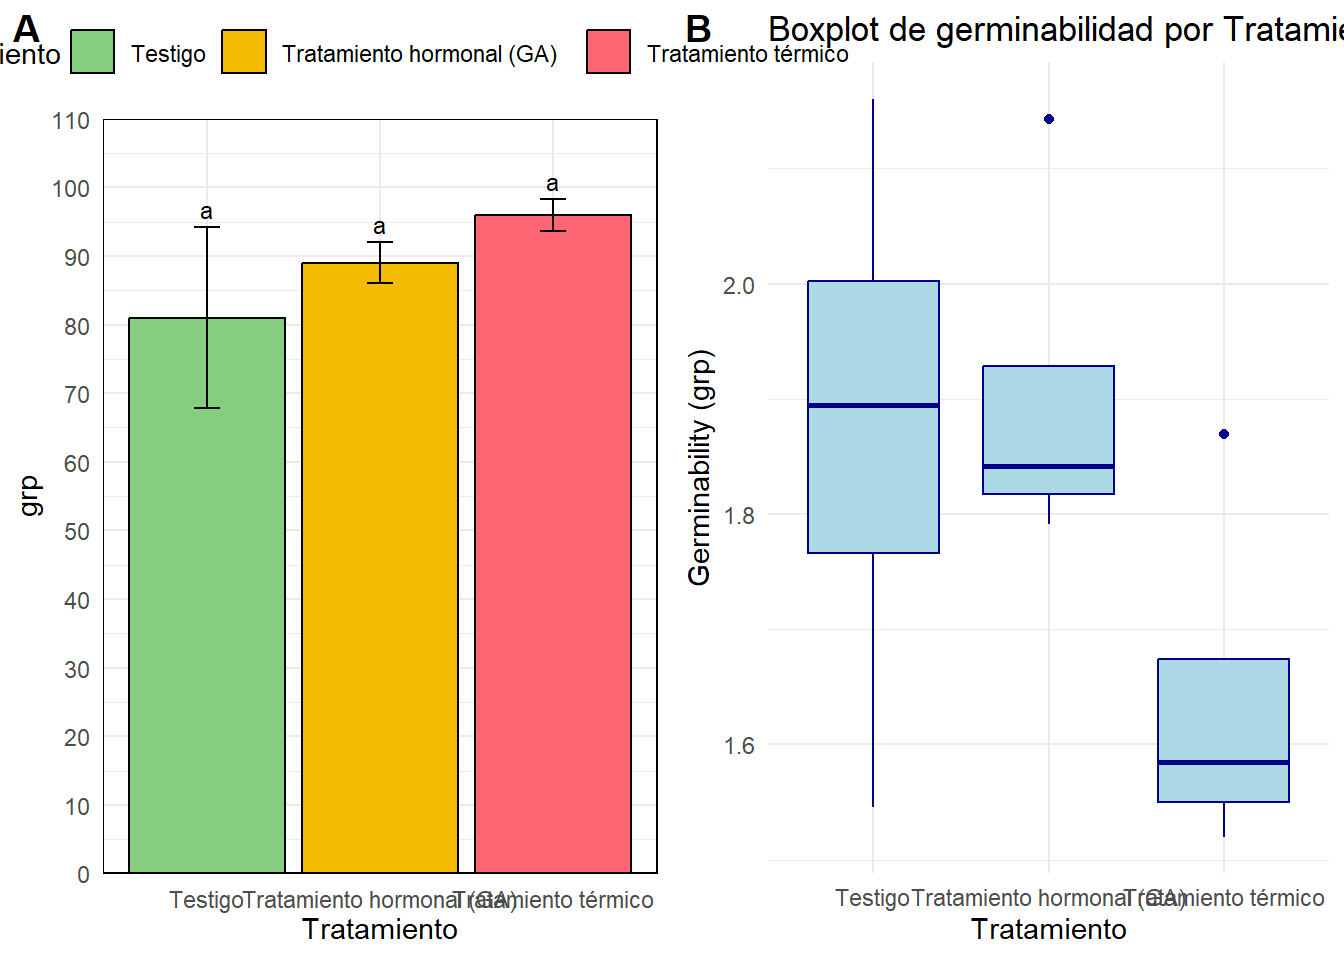
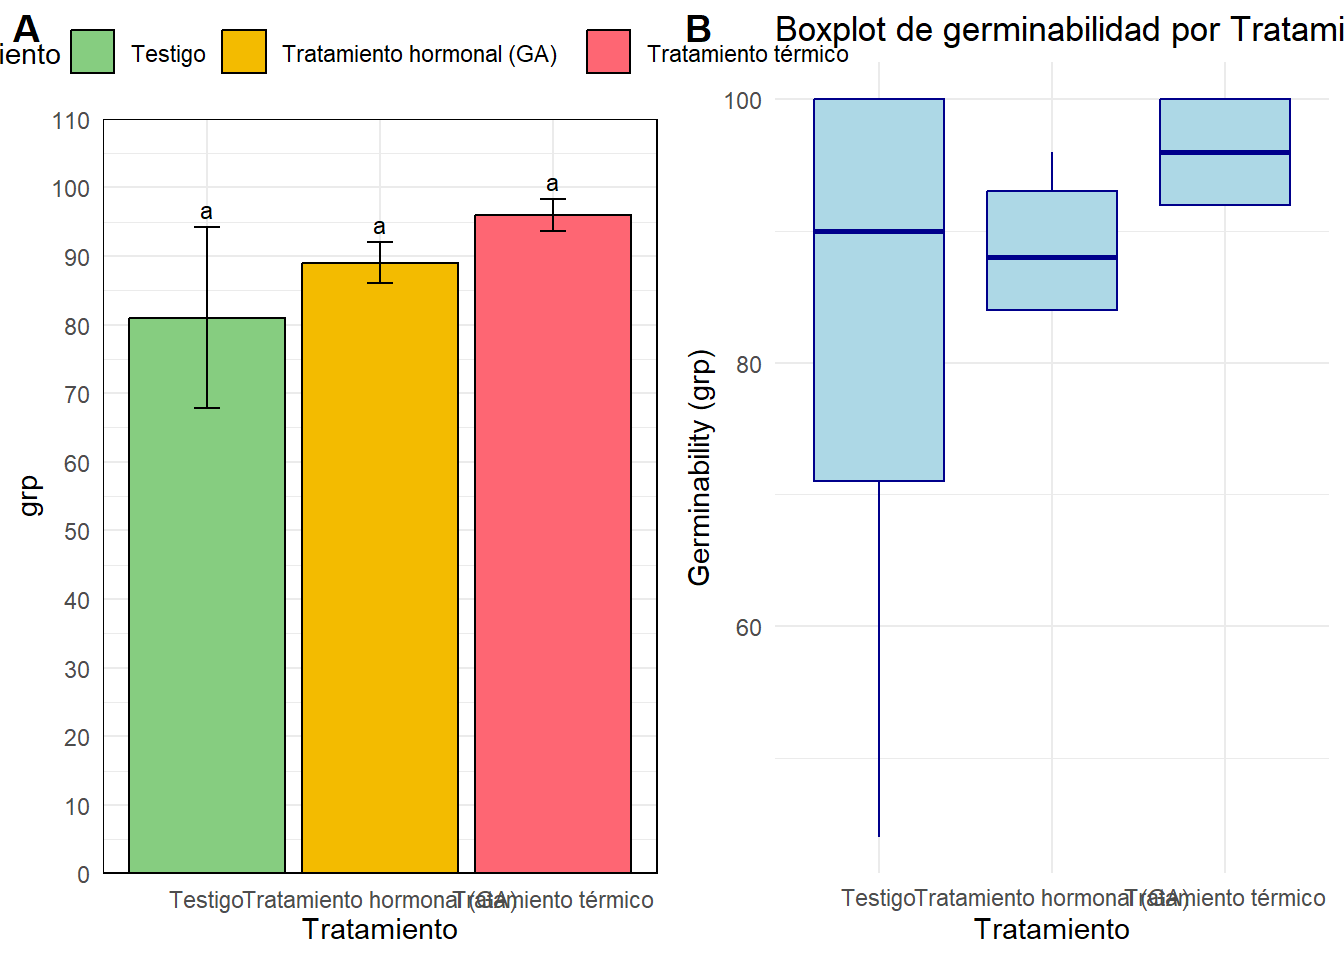
ctual

diff --git a/analize.html b/analize.html
@@ -6,7 +6,6 @@
 
 <meta name="viewport" content="width=device-width, initial-scale=1.0, user-scalable=yes">
 
-<meta name="author" content="Euler G">
 
 <title>Analisis de Germinación – GRUPO F</title>
 <style>
@@ -176,12 +175,6 @@ pre > code.sourceCode > span > a:first-child::before { text-decoration: underlin
 
 <div class="quarto-title-meta">
 
-    <div>
-    <div class="quarto-title-meta-heading">Author</div>
-    <div class="quarto-title-meta-contents">
-             <p>Euler G </p>
-          </div>
-  </div>
     
   
     
@@ -224,7 +217,7 @@ pre > code.sourceCode > span > a:first-child::before { text-decoration: underlin
 <div class="cell-output cell-output-stderr">
 <pre><code>Warning in system2("quarto", "-V", stdout = TRUE, env = paste0("TMPDIR=", : el
 comando ejecutado '"quarto"
-TMPDIR=C:/Users/Euler/AppData/Local/Temp/Rtmp4ItU2K/file3130248c4144 -V' tiene
+TMPDIR=C:/Users/Euler/AppData/Local/Temp/RtmpY1KZBJ/file2c90729963f3 -V' tiene
 el estatus 1</code></pre>
 </div>
 <div class="cell-output cell-output-stdout">
@@ -935,7 +928,7 @@ el estatus 1</code></pre>
 <span id="cb19-4"><a href="#cb19-4" aria-hidden="true" tabindex="-1"></a>       , <span class="at">type =</span> <span class="st">"bar"</span> </span>
 <span id="cb19-5"><a href="#cb19-5" aria-hidden="true" tabindex="-1"></a>       , <span class="at">x =</span> <span class="st">"Tratamiento"</span></span>
 <span id="cb19-6"><a href="#cb19-6" aria-hidden="true" tabindex="-1"></a>       , <span class="at">y =</span> <span class="st">"mgt"</span></span>
-<span id="cb19-7"><a href="#cb19-7" aria-hidden="true" tabindex="-1"></a>       , <span class="at">ylimits =</span> <span class="fu">c</span>(<span class="dv">0</span>, <span class="dv">3</span>, <span class="fl">0.5</span>)</span>
+<span id="cb19-7"><a href="#cb19-7" aria-hidden="true" tabindex="-1"></a>       , <span class="at">ylimits =</span> <span class="fu">c</span>(<span class="dv">0</span>, <span class="fl">2.5</span>, <span class="fl">0.5</span>)</span>
 <span id="cb19-8"><a href="#cb19-8" aria-hidden="true" tabindex="-1"></a>       , <span class="at">sig =</span> <span class="st">"sig"</span></span>
 <span id="cb19-9"><a href="#cb19-9" aria-hidden="true" tabindex="-1"></a>       , <span class="at">error =</span> <span class="st">"ste"</span></span>
 <span id="cb19-10"><a href="#cb19-10" aria-hidden="true" tabindex="-1"></a>      )</span>
@@ -1065,11 +1058,11 @@ el estatus 1</code></pre>
 <span id="cb21-4"><a href="#cb21-4" aria-hidden="true" tabindex="-1"></a>       , <span class="at">type =</span> <span class="st">"bar"</span> </span>
 <span id="cb21-5"><a href="#cb21-5" aria-hidden="true" tabindex="-1"></a>       , <span class="at">x =</span> <span class="st">"Tratamiento"</span></span>
 <span id="cb21-6"><a href="#cb21-6" aria-hidden="true" tabindex="-1"></a>       , <span class="at">y =</span> <span class="st">"syn"</span></span>
-<span id="cb21-7"><a href="#cb21-7" aria-hidden="true" tabindex="-1"></a>       , <span class="at">ylimits =</span> <span class="fu">c</span>(<span class="dv">0</span>, <span class="dv">1</span>, <span class="fl">0.1</span>)</span>
+<span id="cb21-7"><a href="#cb21-7" aria-hidden="true" tabindex="-1"></a>       , <span class="at">ylimits =</span> <span class="fu">c</span>(<span class="dv">0</span>, <span class="fl">0.8</span>, <span class="fl">0.1</span>)</span>
 <span id="cb21-8"><a href="#cb21-8" aria-hidden="true" tabindex="-1"></a>       , <span class="at">sig =</span> <span class="st">"sig"</span></span>
 <span id="cb21-9"><a href="#cb21-9" aria-hidden="true" tabindex="-1"></a>       , <span class="at">error =</span> <span class="st">"ste"</span></span>
 <span id="cb21-10"><a href="#cb21-10" aria-hidden="true" tabindex="-1"></a>      )</span>
-<span id="cb21-11"><a href="#cb21-11" aria-hidden="true" tabindex="-1"></a>b3 <span class="ot">&lt;-</span> <span class="fu">ggplot</span>(gsm, <span class="fu">aes</span>(<span class="at">x =</span> Tratamiento, <span class="at">y =</span> mgt)) <span class="sc">+</span></span>
+<span id="cb21-11"><a href="#cb21-11" aria-hidden="true" tabindex="-1"></a>b3 <span class="ot">&lt;-</span> <span class="fu">ggplot</span>(gsm, <span class="fu">aes</span>(<span class="at">x =</span> Tratamiento, <span class="at">y =</span> syn)) <span class="sc">+</span></span>
 <span id="cb21-12"><a href="#cb21-12" aria-hidden="true" tabindex="-1"></a>  <span class="fu">geom_boxplot</span>(<span class="at">fill =</span> <span class="st">"lightblue"</span>, <span class="at">color =</span> <span class="st">"darkblue"</span>) <span class="sc">+</span></span>
 <span id="cb21-13"><a href="#cb21-13" aria-hidden="true" tabindex="-1"></a>  <span class="fu">labs</span>(<span class="at">title =</span> <span class="st">"Boxplot de índice de sincronización por Tratamiento"</span>,</span>
 <span id="cb21-14"><a href="#cb21-14" aria-hidden="true" tabindex="-1"></a>       <span class="at">x =</span> <span class="st">"Tratamiento"</span>,</span>
@@ -1199,7 +1192,7 @@ el estatus 1</code></pre>
 <span id="cb23-8"><a href="#cb23-8" aria-hidden="true" tabindex="-1"></a>       , <span class="at">sig =</span> <span class="st">"sig"</span></span>
 <span id="cb23-9"><a href="#cb23-9" aria-hidden="true" tabindex="-1"></a>       , <span class="at">error =</span> <span class="st">"ste"</span></span>
 <span id="cb23-10"><a href="#cb23-10" aria-hidden="true" tabindex="-1"></a>      )</span>
-<span id="cb23-11"><a href="#cb23-11" aria-hidden="true" tabindex="-1"></a>b4 <span class="ot">&lt;-</span> <span class="fu">ggplot</span>(gsm, <span class="fu">aes</span>(<span class="at">x =</span> Tratamiento, <span class="at">y =</span> mgt)) <span class="sc">+</span></span>
+<span id="cb23-11"><a href="#cb23-11" aria-hidden="true" tabindex="-1"></a>b4 <span class="ot">&lt;-</span> <span class="fu">ggplot</span>(gsm, <span class="fu">aes</span>(<span class="at">x =</span> Tratamiento, <span class="at">y =</span> grp)) <span class="sc">+</span></span>
 <span id="cb23-12"><a href="#cb23-12" aria-hidden="true" tabindex="-1"></a>  <span class="fu">geom_boxplot</span>(<span class="at">fill =</span> <span class="st">"lightblue"</span>, <span class="at">color =</span> <span class="st">"darkblue"</span>) <span class="sc">+</span></span>
 <span id="cb23-13"><a href="#cb23-13" aria-hidden="true" tabindex="-1"></a>  <span class="fu">labs</span>(<span class="at">title =</span> <span class="st">"Boxplot de germinabilidad por Tratamiento"</span>,</span>
 <span id="cb23-14"><a href="#cb23-14" aria-hidden="true" tabindex="-1"></a>       <span class="at">x =</span> <span class="st">"Tratamiento"</span>,</span>

diff --git a/info.html b/info.html
@@ -255,7 +255,7 @@ div.csl-indent {
 <div class="quarto-figure quarto-figure-center">
 <figure class="figure">
 <p><img src="figure1.jpg" class="img-fluid figure-img"></p>
-<figcaption><em>Figura 1</em>. Logo de R en alta resolución.</figcaption>
+<figcaption><em>Figura 1</em>. Efecto de tratamientos hormonales y térmicos sobre el número de semillas germinadas de garbanzo (<em>Cicer arietinum</em> L..</figcaption>
 </figure>
 </div>
 </section>
@@ -264,7 +264,7 @@ div.csl-indent {
 <div class="quarto-figure quarto-figure-center">
 <figure class="figure">
 <p><img src="figure2.jpg" class="img-fluid figure-img"></p>
-<figcaption><em>Figura 2</em>. L</figcaption>
+<figcaption><em>Figura 2</em>. Efecto de tratamientos hormonales y térmicos sobre el tiempo medio de germinación en semillas de garbanzo (<em>Cicer arietinum</em> L.)</figcaption>
 </figure>
 </div>
 </section>
